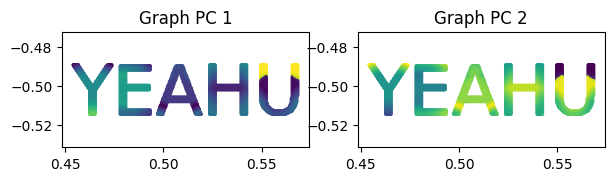
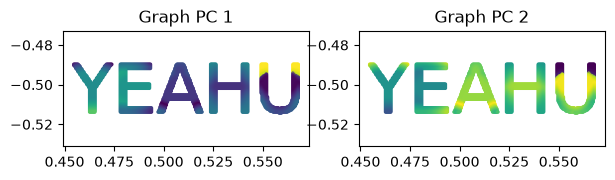
update readme files

diff --git a/README.md b/README.md
@@ -7,21 +7,8 @@
 
 Performs Principal Component Analysis (PCA) with optional graph distance for neighborhood composition.
 
-<!-- START doctoc generated TOC please keep comment here to allow auto update -->
-<!-- DON'T EDIT THIS SECTION, INSTEAD RE-RUN doctoc TO UPDATE -->
-**Table of Contents**
-
-- [Geodesic Graph Distance](#geodesic-graph-distance)
-  - [Why?](#why)
-  - [What?](#what)
-  - [Results](#results)
-  - [Why not?](#why-not)
-- [Installation](#installation)
-- [Example](#example)
-  - [Classic PCA](#classic-pca)
-  - [Graph PCA](#graph-pca)
-
-<!-- END doctoc generated TOC please keep comment here to allow auto update -->
+<!-- START doctoc -->
+<!-- END doctoc -->
 
 
 # Geodesic Graph Distance